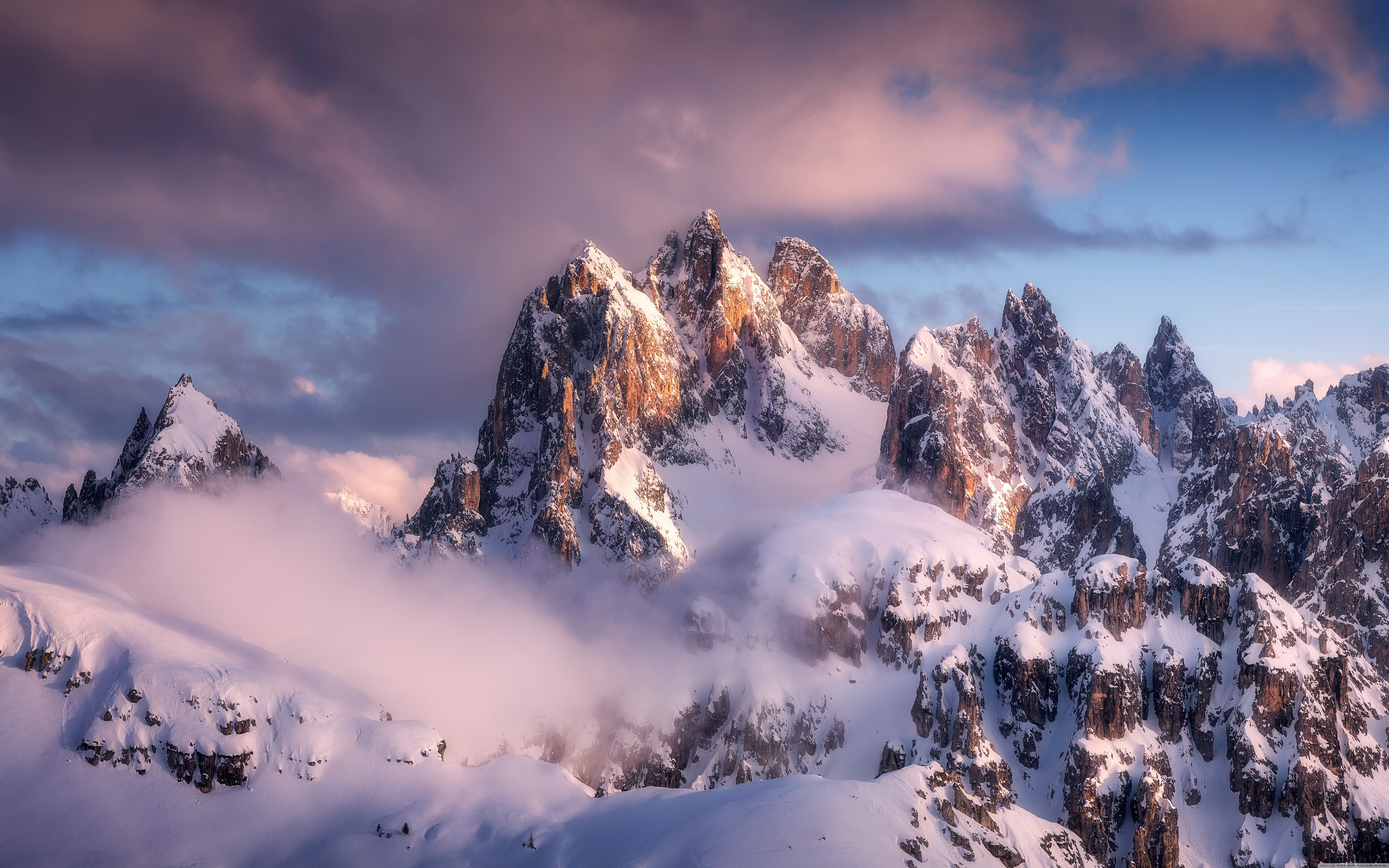
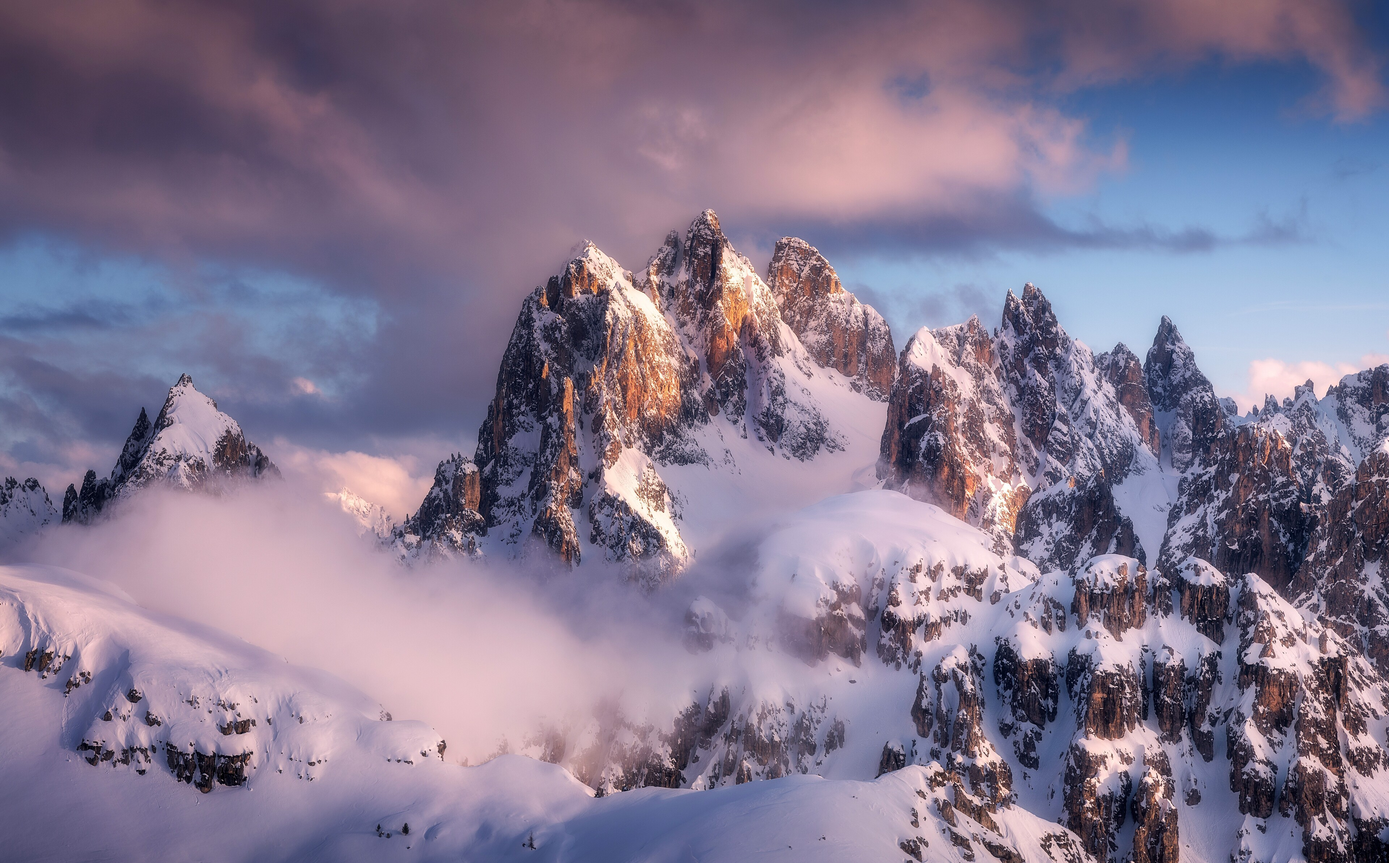
Refine palette, gradient border, cropped wallpaper
- yellow becomes a real amber (#f2cc7a); the peach moves to orange
- green softened to #6fdd7f, cyan nudged to #72bdf0, dark_foreground lavender-tinted
- bright yellow/green/cyan follow
- hyprland_active_border: violet-to-orchid gradient
- background replaced with the cropped purple-mountains image (3840x2386)
- README and preview updated

diff --git a/README.md b/README.md
@@ -20,12 +20,14 @@ Or in Omarchy: **Super + Alt + Space → Install → Style → Theme** and paste
 | foreground | `#f4f1f1` | | selection | `#2c3040` |
 | muted | `#8c8a9d` | | lighter background | `#252525` |
 | red | `#ee7777` | | bright red | `#f27373` |
-| green | `#55e755` | | bright green | `#79ec79` |
-| yellow | `#f39065` | | bright yellow | `#f8976d` |
+| green | `#6fdd7f` | | bright green | `#8de89a` |
+| yellow | `#f2cc7a` | | bright yellow | `#f6d78f` |
 | blue | `#6c77ea` | | bright blue | `#a6adf6` |
 | magenta | `#df6dea` | | bright magenta | `#dd79ec` |
-| cyan | `#75aff0` | | bright cyan | `#71b0f4` |
-| orange | `#f18b8b` | | brown | `#915353` |
+| cyan | `#72bdf0` | | bright cyan | `#8ac9f4` |
+| orange | `#f39065` | | brown | `#915353` |
+
+The focused-window border is a violet-to-orchid gradient (`hyprland_active_border`), which the Omarchy shell reuses for popup and notification borders.
 
 Everything else (terminals, btop, Neovim via aether.nvim, the Omarchy shell, Hyprland borders, Chromium, VS Code, Obsidian, …) is generated by Omarchy from `colors.toml`.
 
